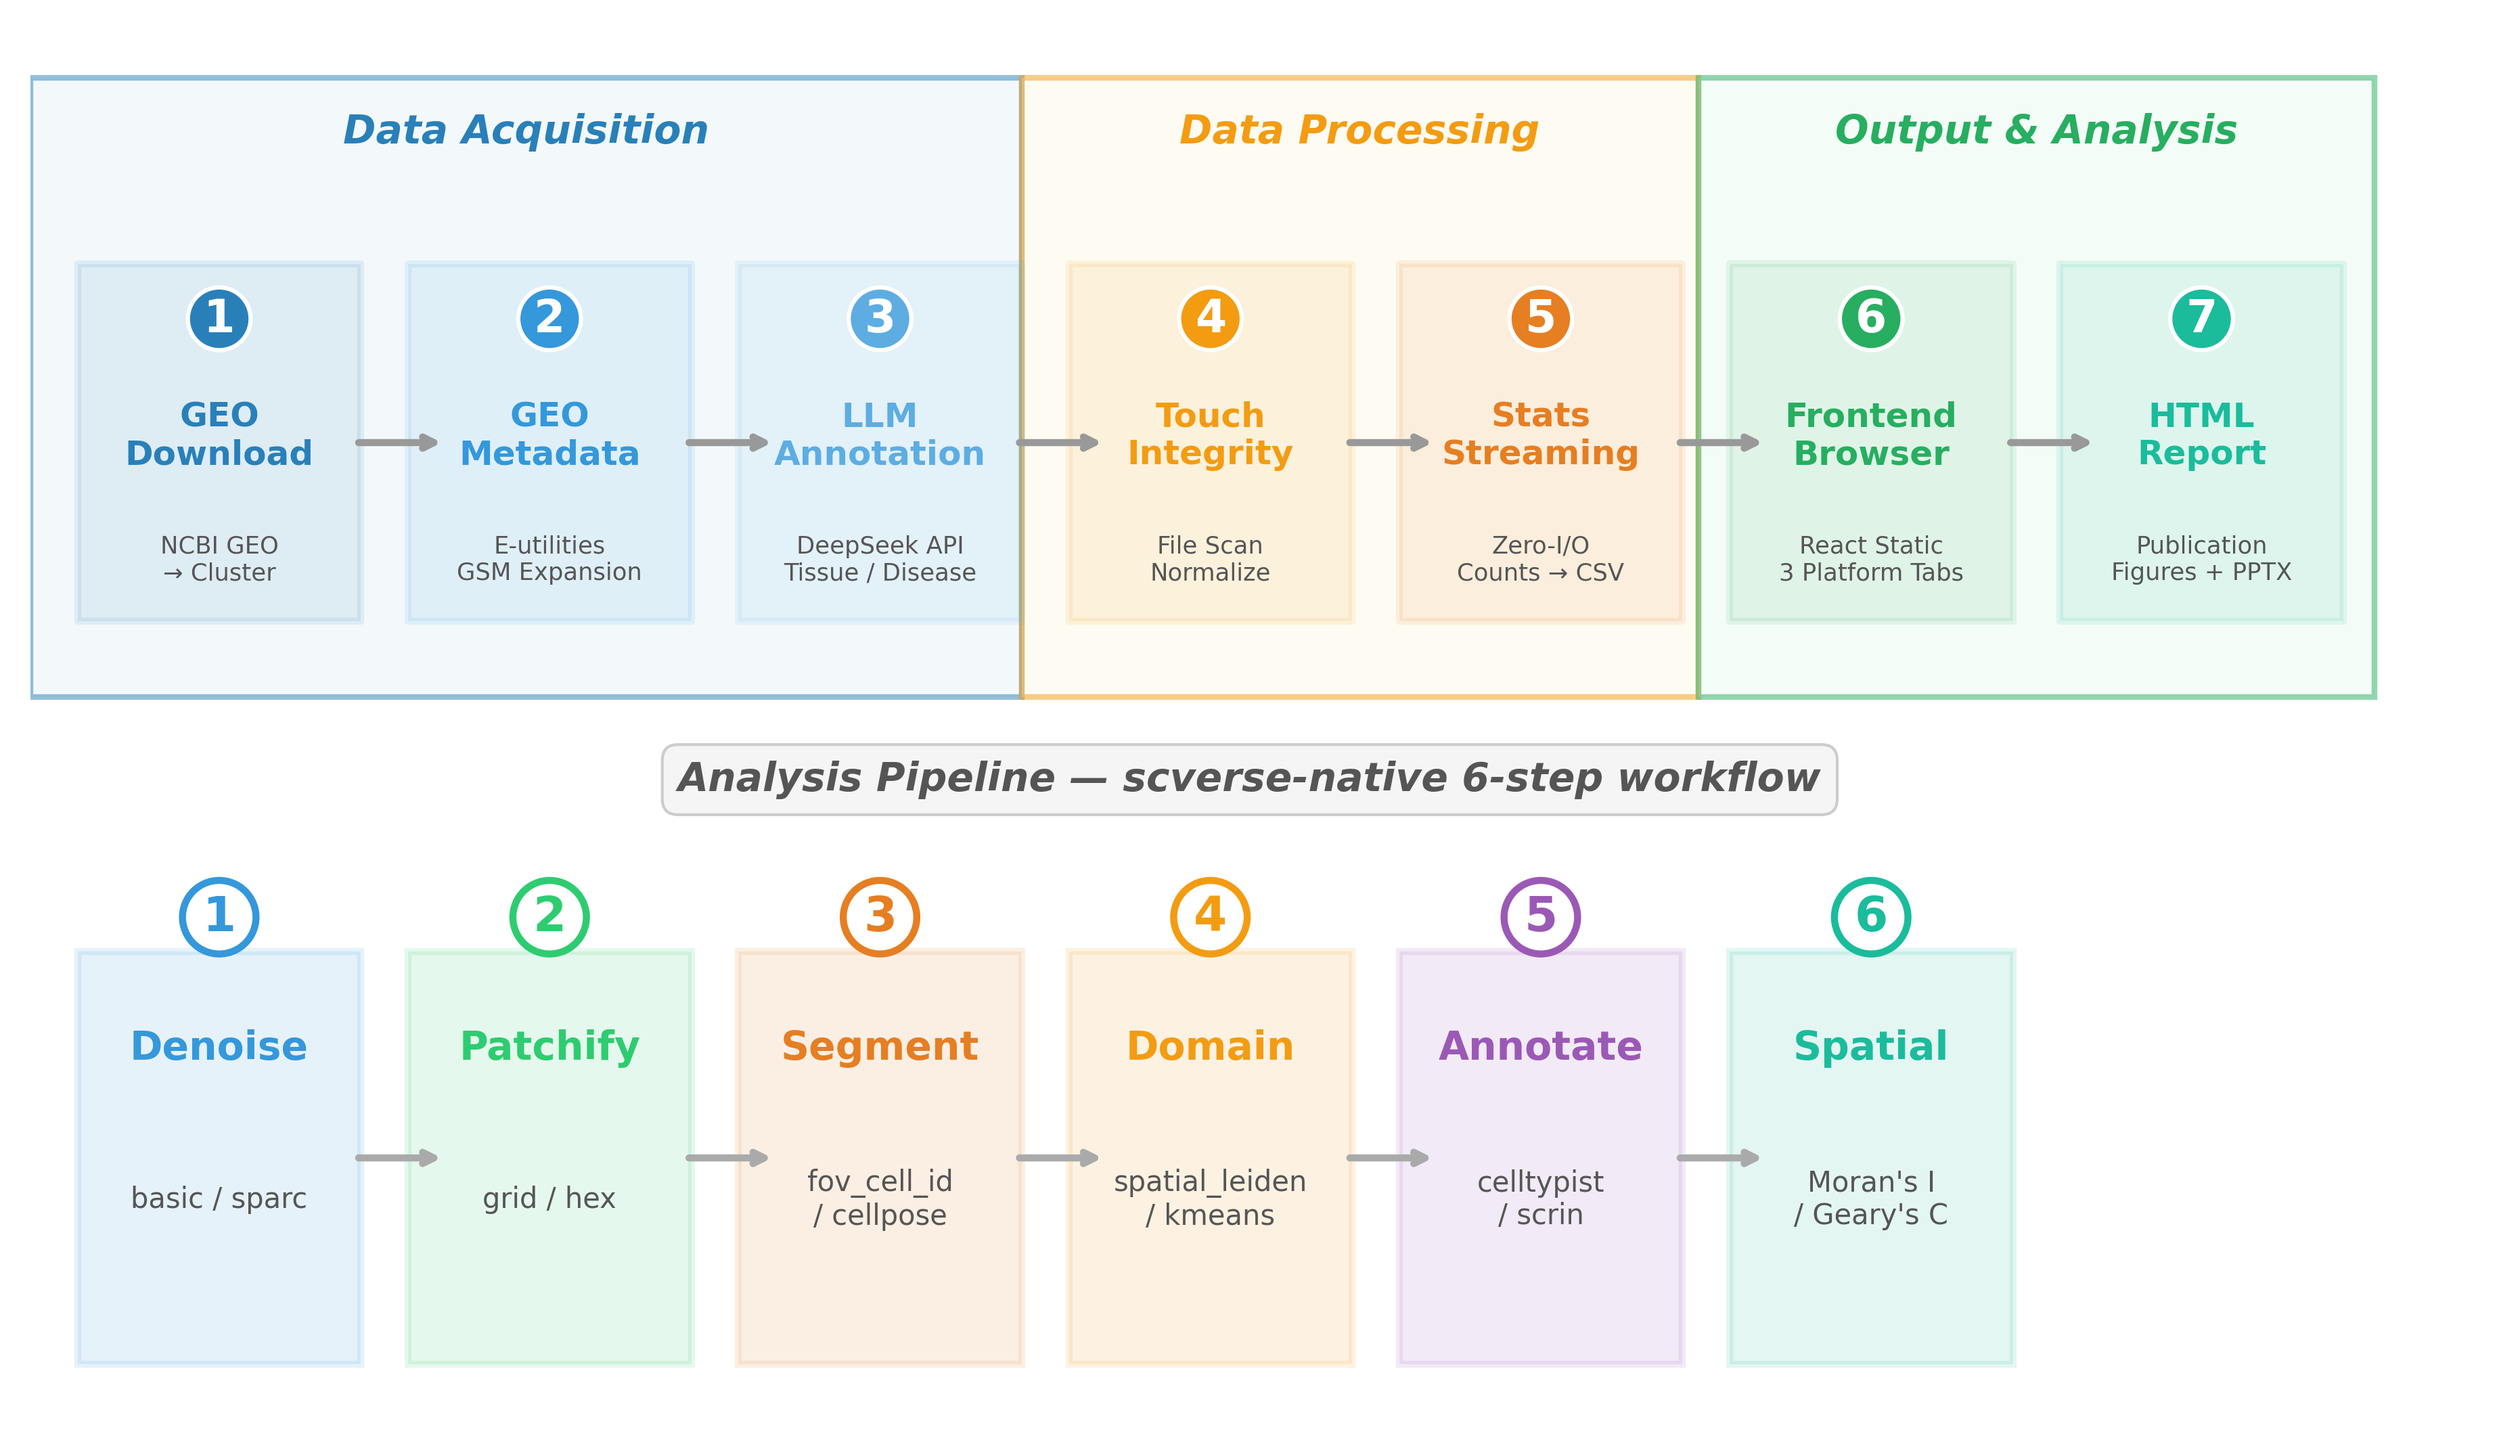
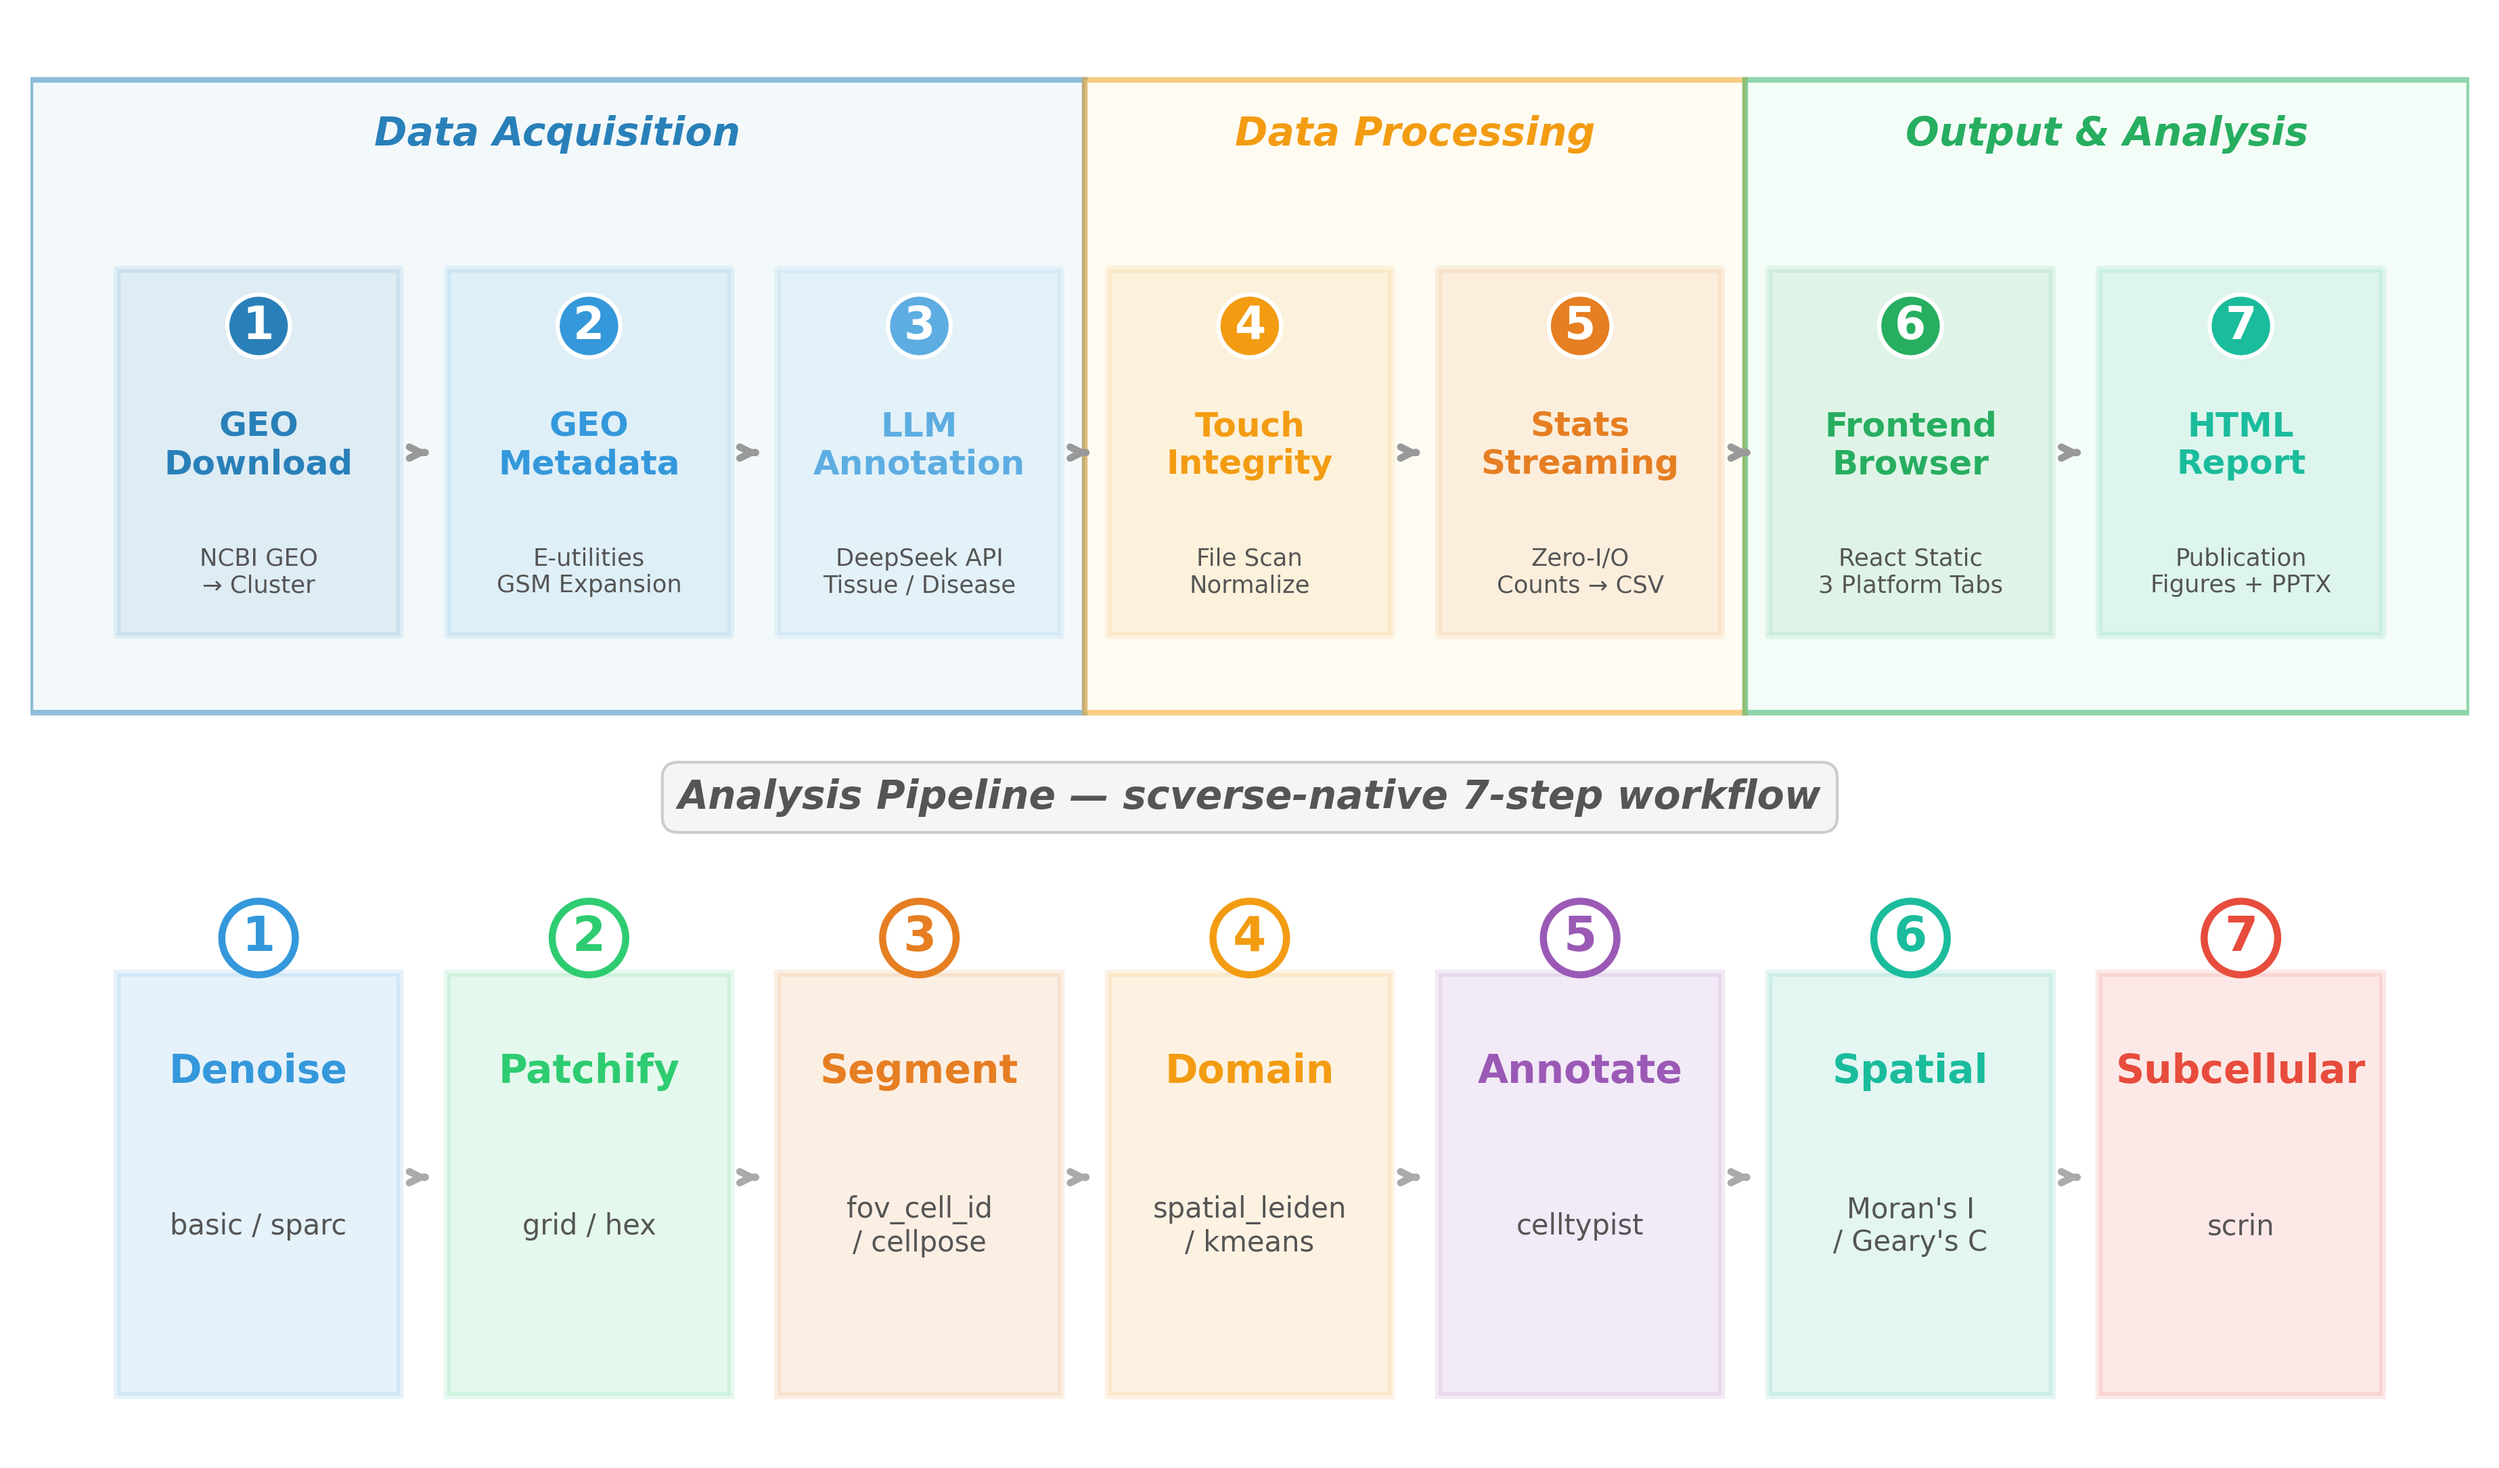
feat: precise phase alignment + 7-step bottom pipeline with subcellular
- Precise geometry: BOX_W=1.8, GAP=0.3, OFF=0.55 (equal L/R margins)
- Phase dividers at exact midpoints: 6.70 (Acq/Proc), 10.90 (Proc/Out)
- Bottom section: 7 steps (added Subcellular/scrin, removed scrin from Annotate)
- Both sections share identical x-coordinates (i*2.1+0.55)
- Arrows centered in 0.3 gaps via GAP*0.4/GAP*0.6 inset

diff --git a/report/gen_poster_figures.py b/report/gen_poster_figures.py
@@ -57,17 +57,22 @@ def flt(v):
 # ═════════════════════════════════════════════════════════════════
 
 def fig1_platform_pipeline():
-    fig, ax = plt.subplots(figsize=(15.5, 8.8))
+    fig, ax = plt.subplots(figsize=(15.5, 9))
     ax.set_xlim(0, 15.5); ax.set_ylim(0, 10)
     ax.axis('off')
 
+    # ── 几何参数: 7 步 × (1.8 宽 + 0.3 间隙) = 14.4, 边距 (15.5-14.4)/2 = 0.55 ──
+    BOX_W, GAP, OFF = 1.8, 0.3, 0.55
+    DIV1 = OFF + 2*2.1 + BOX_W + GAP/2   # 步骤2与3之间: 6.70
+    DIV2 = OFF + 4*2.1 + BOX_W + GAP/2   # 步骤4与5之间: 10.90
+
     # ═══════════════════════ 上段: 平台搭建 Pipeline ═══════════════════════
 
-    # ── 三个大阶段（Processing 左边界稍移，右边界左移一个箭头）──
+    # ── 三个大阶段（分割线精确位于盒子间隙正中）──
     phases = [
-        (0, 6.3, 'Data Acquisition', '#e8f4f8', '#2980b9'),
-        (6.3, 10.6, 'Data Processing', '#fef9e7', '#f39c12'),
-        (10.6, 14.9, 'Output & Analysis', '#eafaf1', '#27ae60'),
+        (0, DIV1, 'Data Acquisition', '#e8f4f8', '#2980b9'),
+        (DIV1, DIV2, 'Data Processing', '#fef9e7', '#f39c12'),
+        (DIV2, 15.5, 'Output & Analysis', '#eafaf1', '#27ae60'),
     ]
     for x0, x1, label, bg, edge in phases:
         rect = plt.Rectangle((x0, 5.15), x1-x0, 4.5,
@@ -88,29 +93,29 @@ def fig1_platform_pipeline():
     ]
 
     for i, (num, title, desc, color) in enumerate(steps_upper):
-        x = i * 2.1 + 0.3
-        rect = plt.Rectangle((x, 5.7), 1.8, 2.6, facecolor=color, alpha=0.10,
+        x = i * 2.1 + OFF
+        rect = plt.Rectangle((x, 5.7), BOX_W, 2.6, facecolor=color, alpha=0.10,
                              edgecolor=color, linewidth=2.5, zorder=2, joinstyle='round',
                              linestyle='-')
         ax.add_patch(rect)
-        # 圆角编号
-        ax.text(x + 0.9, 7.9, num, ha='center', va='center', fontsize=16,
+        ax.text(x + BOX_W/2, 7.9, num, ha='center', va='center', fontsize=16,
                 fontweight='bold', color='white',
                 bbox=dict(boxstyle='circle', facecolor=color, edgecolor='white',
                           linewidth=1.5, pad=0.2))
-        ax.text(x + 0.9, 7.05, title, ha='center', va='center', fontsize=12,
+        ax.text(x + BOX_W/2, 7.05, title, ha='center', va='center', fontsize=12,
                 fontweight='bold', color=color)
-        ax.text(x + 0.9, 6.15, desc, ha='center', va='center', fontsize=8.5,
+        ax.text(x + BOX_W/2, 6.15, desc, ha='center', va='center', fontsize=8.5,
                 color='#555')
-        # 箭头
+        # 箭头（在 0.3 间隙中居中）
         if i < len(steps_upper) - 1:
-            ax.annotate('', xy=(x + 2.35, 7.0), xytext=(x + 1.75, 7.0),
+            ax.annotate('', xy=(x + BOX_W + GAP*0.6, 7.0),
+                        xytext=(x + BOX_W + GAP*0.4, 7.0),
                         arrowprops=dict(arrowstyle='->', color='#999', lw=2.5))
 
-    # ═══════════════════════ 下段: 6 步分析 Pipeline（整体放大）═══════════════
+    # ═══════════════════════ 下段: 7 步分析 Pipeline（对齐上图）══════════════
 
     # ── 分隔标题 ──
-    ax.text(7.75, 4.55, 'Analysis Pipeline — scverse-native 6-step workflow',
+    ax.text(7.75, 4.55, 'Analysis Pipeline — scverse-native 7-step workflow',
             ha='center', va='center', fontsize=14, color='#555', style='italic',
             fontweight='bold',
             bbox=dict(boxstyle='round,pad=0.4', facecolor='#f5f5f5',
@@ -121,25 +126,27 @@ def fig1_platform_pipeline():
         ('2', 'Patchify', 'grid / hex', '#2ecc71'),
         ('3', 'Segment', 'fov_cell_id\n/ cellpose', '#e67e22'),
         ('4', 'Domain', 'spatial_leiden\n/ kmeans', '#f39c12'),
-        ('5', 'Annotate', 'celltypist\n/ scrin', '#9b59b6'),
+        ('5', 'Annotate', 'celltypist', '#9b59b6'),
         ('6', 'Spatial', "Moran's I\n/ Geary's C", '#1abc9c'),
+        ('7', 'Subcellular', 'scrin', '#e74c3c'),
     ]
 
     for i, (num, title, desc, color) in enumerate(steps_lower):
-        x = i * 2.1 + 0.3
-        rect = plt.Rectangle((x, 0.3), 1.8, 3.0, facecolor=color, alpha=0.12,
+        x = i * 2.1 + OFF  # 与上段完全相同的 x 坐标
+        rect = plt.Rectangle((x, 0.3), BOX_W, 3.0, facecolor=color, alpha=0.12,
                              edgecolor=color, linewidth=2.5, zorder=2)
         ax.add_patch(rect)
-        ax.text(x + 0.9, 2.6, title, ha='center', va='center', fontsize=14,
+        ax.text(x + BOX_W/2, 2.6, title, ha='center', va='center', fontsize=14,
                 fontweight='bold', color=color)
-        ax.text(x + 0.9, 1.5, desc, ha='center', va='center', fontsize=10,
+        ax.text(x + BOX_W/2, 1.5, desc, ha='center', va='center', fontsize=10,
                 color='#555')
-        ax.text(x + 0.9, 3.55, str(i+1), ha='center', va='center', fontsize=17,
+        ax.text(x + BOX_W/2, 3.55, str(i+1), ha='center', va='center', fontsize=17,
                 fontweight='bold', color=color,
                 bbox=dict(boxstyle='circle', facecolor='white', edgecolor=color,
                           linewidth=2.5, pad=0.28))
         if i < len(steps_lower) - 1:
-            ax.annotate('', xy=(x + 2.35, 1.8), xytext=(x + 1.75, 1.8),
+            ax.annotate('', xy=(x + BOX_W + GAP*0.6, 1.85),
+                        xytext=(x + BOX_W + GAP*0.4, 1.85),
                         arrowprops=dict(arrowstyle='->', color='#aaa', lw=2.5))
 
     fig.savefig(OUT / 'fig1_platform_pipeline.png', dpi=300)
